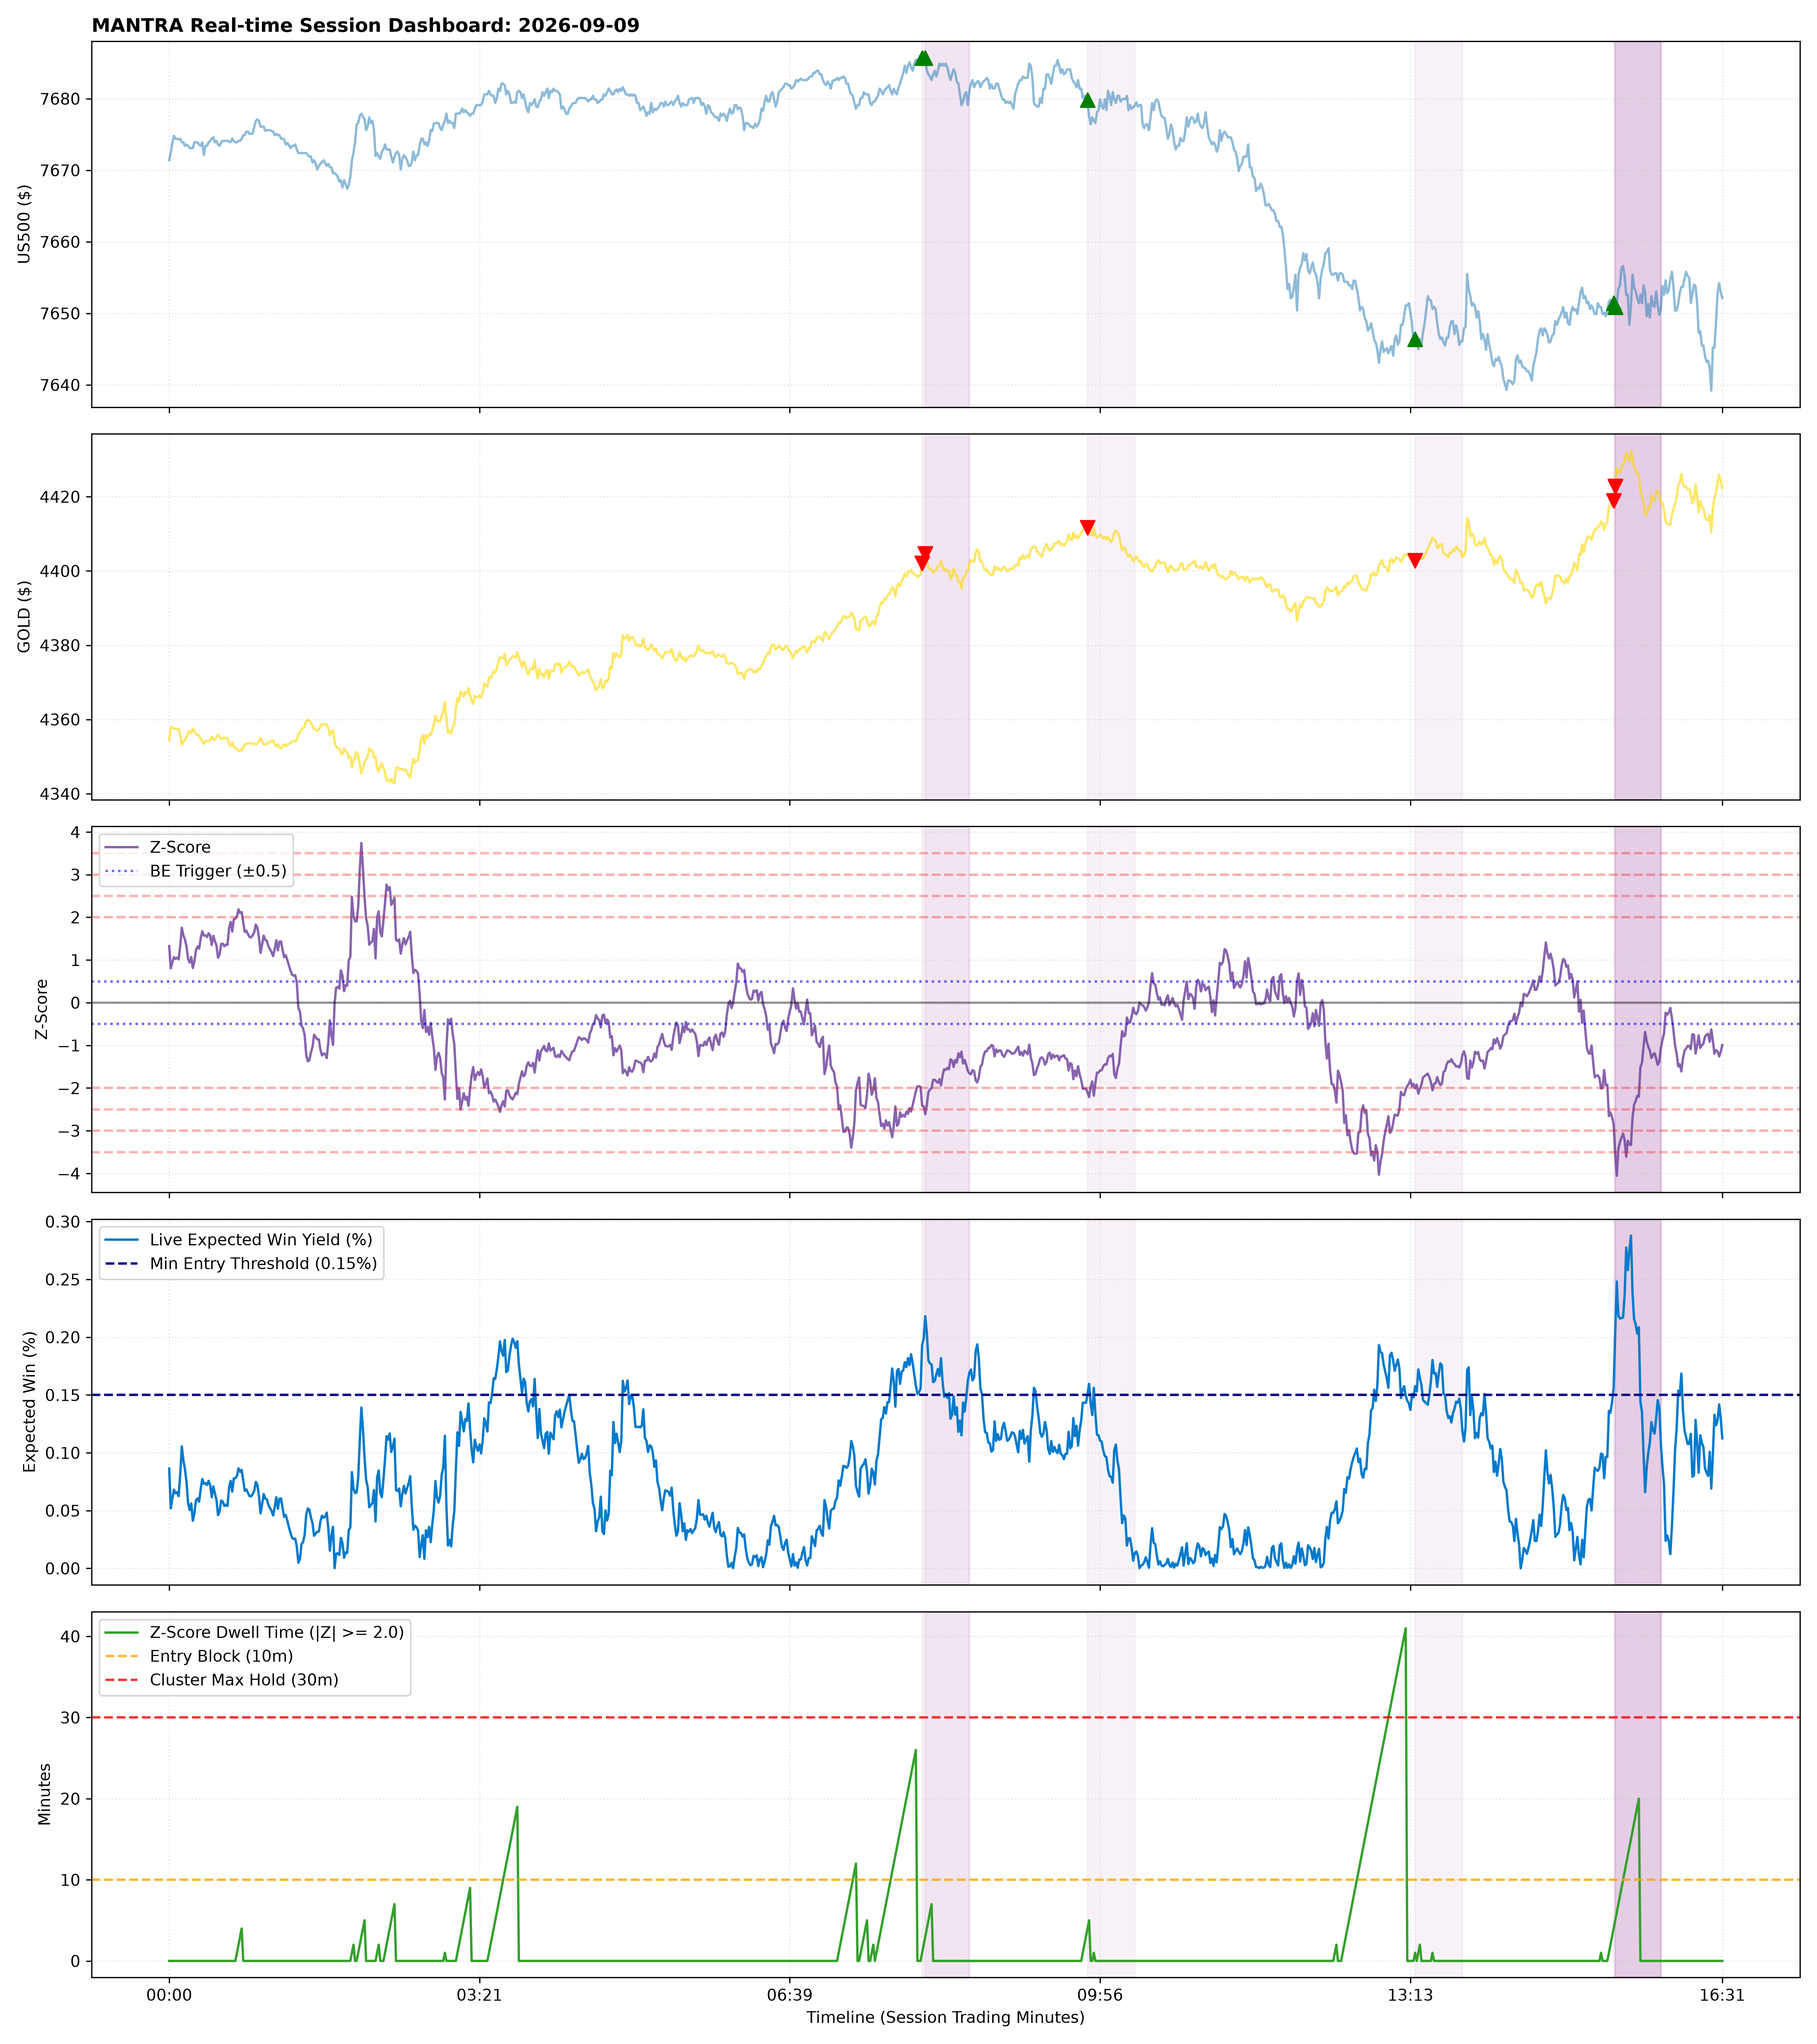
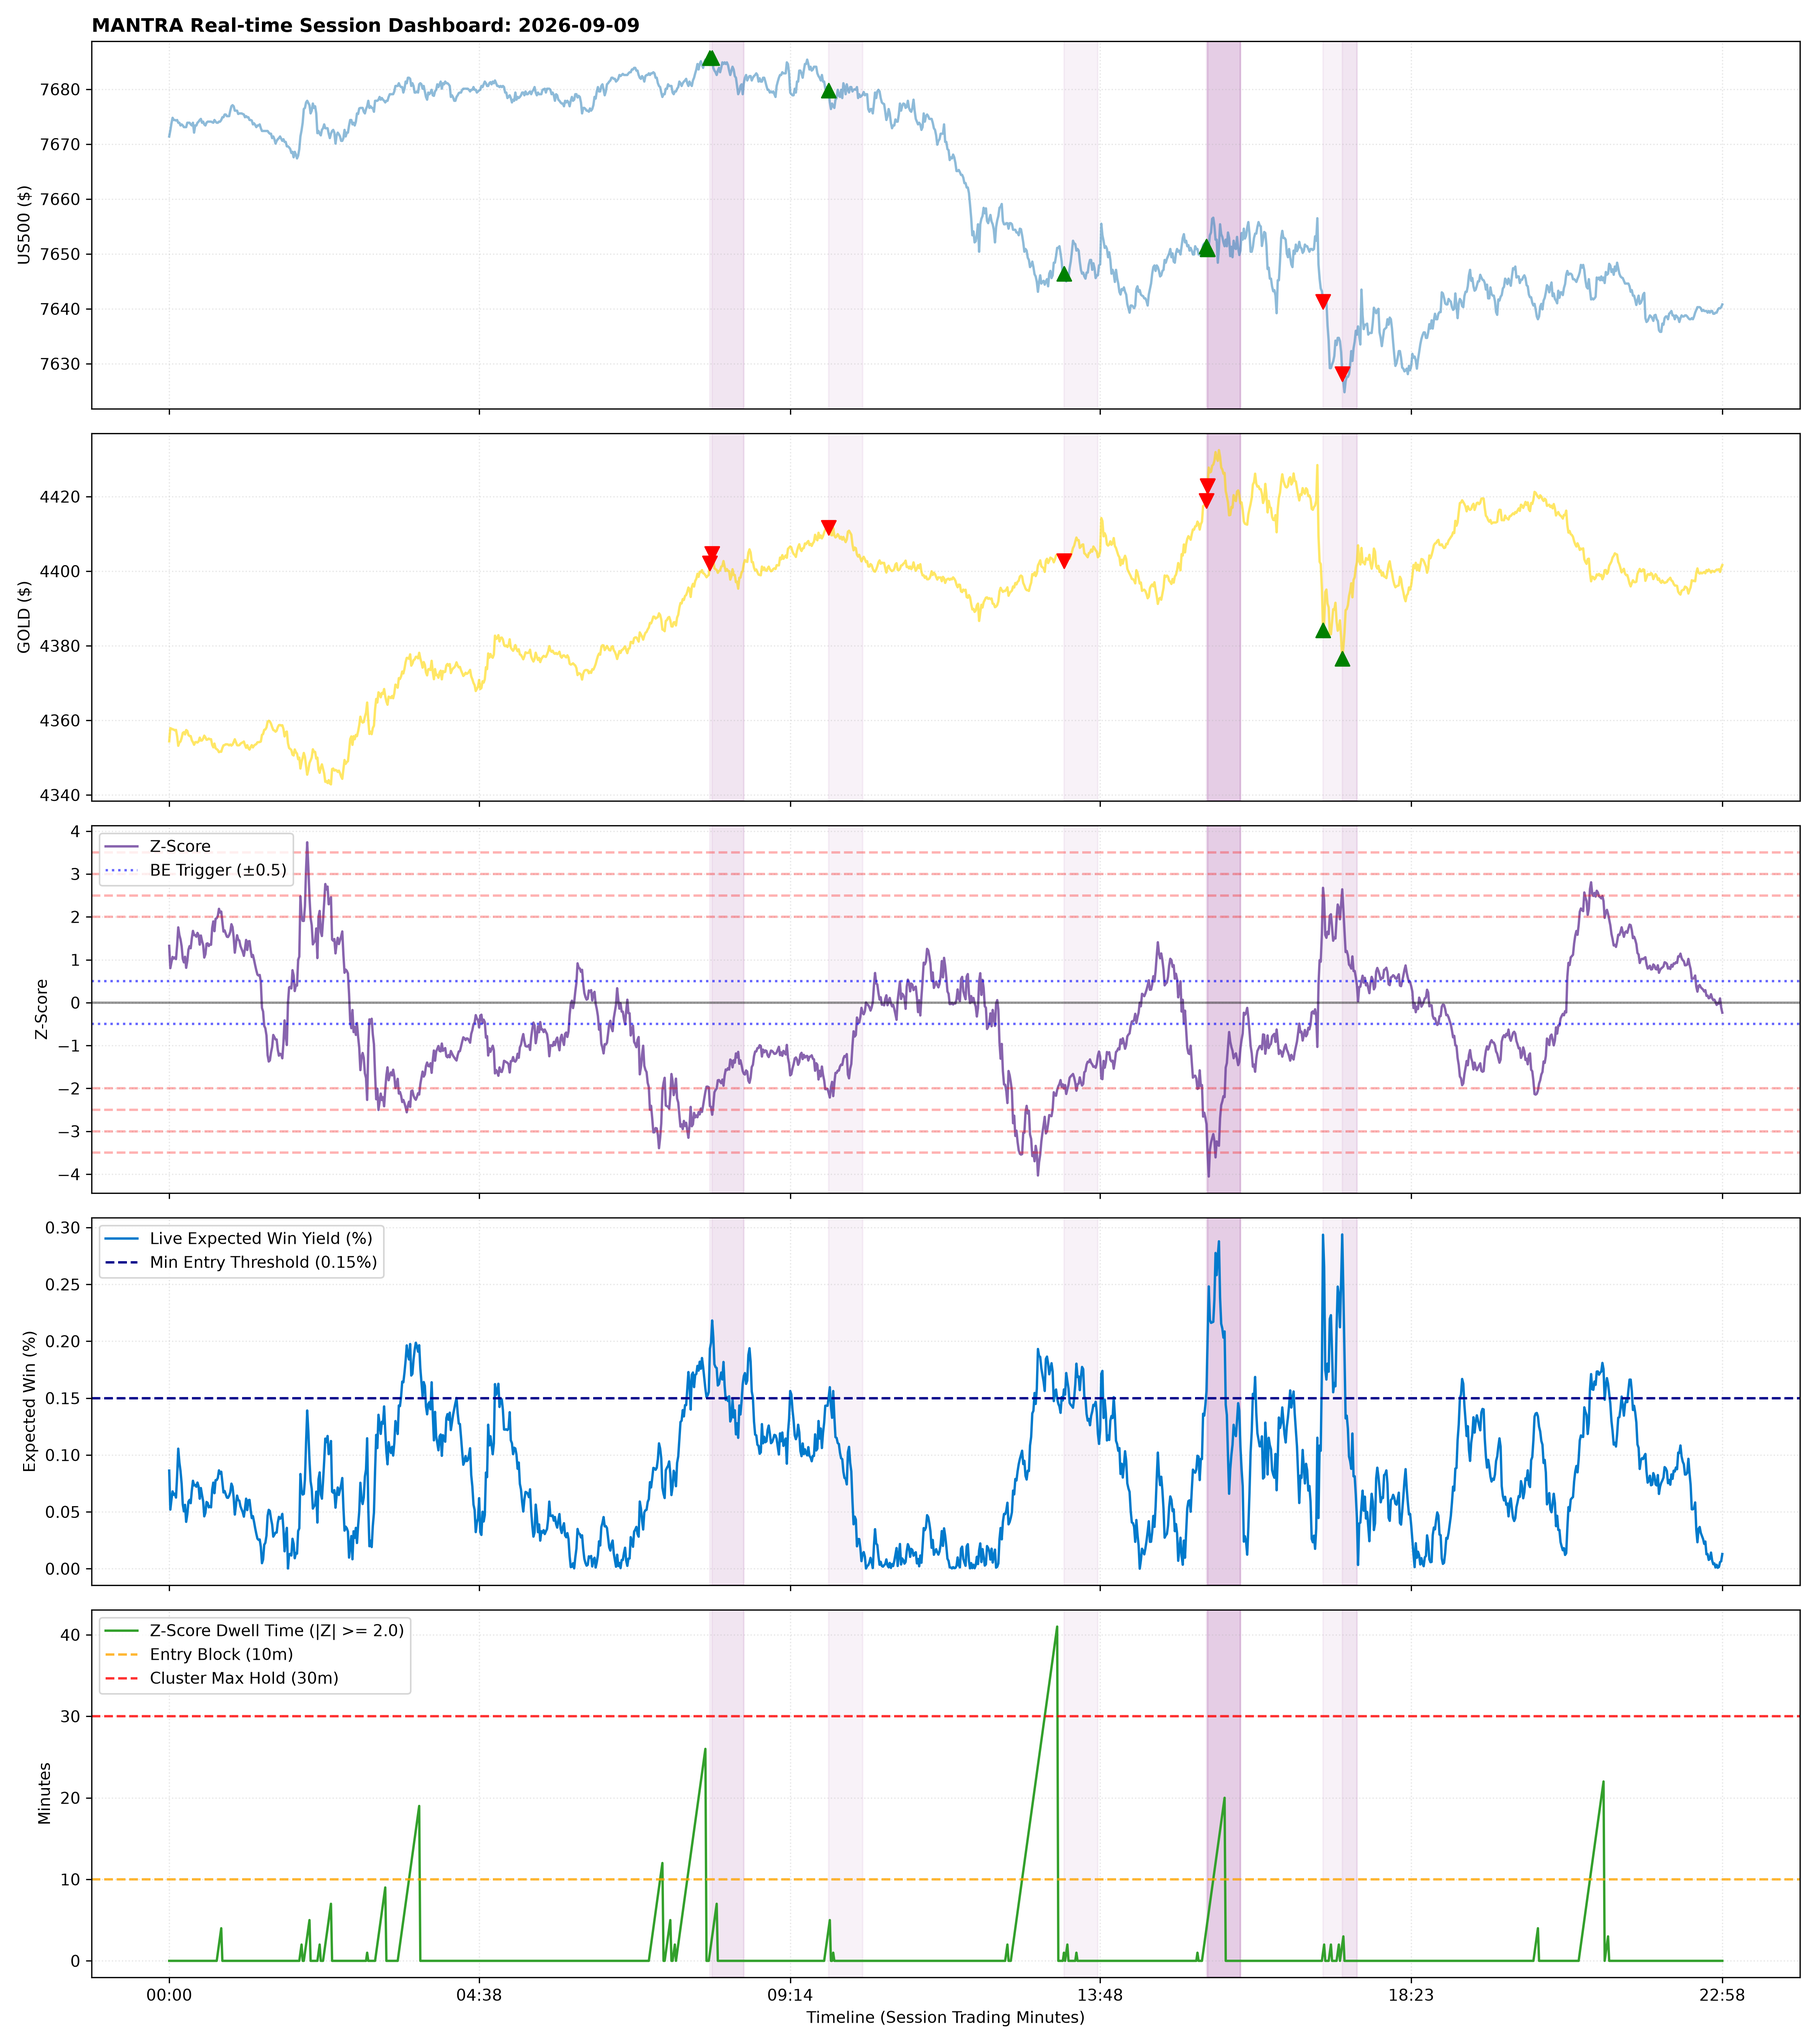
📊 MANTRA Systemic Sync: Automated Layered Session Reports [skip ci]

diff --git a/Strategies/results/daily_analysis_z_score_strategy/2026-09-10/multi_backtest_report.md b/Strategies/results/daily_analysis_z_score_strategy/2026-09-10/multi_backtest_report.md
@@ -1,0 +1,21 @@
+# 📊 MANTRA: Layered Z-Score Session Report (2026-09-10)
+
+* **Strategy Architecture:** `MULTI-SLOT GRID WITH VEILIGE ZONE BREAK-EVEN STOP`
+* **Filters:** Expected Win (`>=0.15%`) | Dwell Block (`10m`) | Cluster Exit (`30m`) | BE Trigger (`|Z|=0.5`)
+
+### 📈 Session Key Performance Metrics
+* **Total Scaled Batches Executed:** 8
+* **Batch Win Rate:** 75.00%
+* **Net Portfolio Session Yield (10x Leveraged Portfolio):** **0.6298%**
+
+### 📜 Session Transaction Ledger
+| Slot | Entry Time | Exit Time | US500 Pos | Entry US500 | Exit US500 | Gold Pos | Entry GOLD | Exit GOLD | PnL Trade Combination | Reason |
+| :--- | :--- | :--- | :--- | :--- | :--- | :--- | :--- | :--- | :--- | :--- |
+| **Slot 1** | 07:59 | 08:14 | `LONG` | 7657.30 | 7655.00 | `SHORT` | 4430.81 | 4416.76 | **0.1435%** | `MEAN_REVERSION_CONVERGENCE` |
+| **Slot 1** | 10:45 | 11:15 | `SHORT` | 7647.20 | 7646.30 | `LONG` | 4394.15 | 4393.78 | **0.0017%** | `CRITICAL_DWELL_TIME_EXCEEDED` |
+| **Slot 1** | 12:36 | 13:06 | `SHORT` | 7643.50 | 7638.10 | `LONG` | 4380.09 | 4379.10 | **0.0240%** | `CRITICAL_DWELL_TIME_EXCEEDED` |
+| **Slot 1** | 14:31 | 14:54 | `SHORT` | 7611.60 | 7599.80 | `LONG` | 4353.15 | 4343.17 | **-0.0371%** | `BREAK_EVEN_PROTECTION_EXIT` |
+| **Slot 2** | 14:32 | 14:54 | `SHORT` | 7608.70 | 7599.80 | `LONG` | 4351.47 | 4343.17 | **-0.0369%** | `BREAK_EVEN_PROTECTION_EXIT` |
+| **Slot 3** | 14:34 | 14:54 | `SHORT` | 7598.80 | 7599.80 | `LONG` | 4342.58 | 4343.17 | **0.0002%** | `BREAK_EVEN_PROTECTION_EXIT` |
+| **Slot 4** | 14:35 | 14:54 | `SHORT` | 7603.30 | 7599.80 | `LONG` | 4341.24 | 4343.17 | **0.0452%** | `BREAK_EVEN_PROTECTION_EXIT` |
+| **Slot 1** | 15:48 | 16:18 | `LONG` | 7597.50 | 7589.20 | `SHORT` | 4374.35 | 4359.84 | **0.1112%** | `CRITICAL_DWELL_TIME_EXCEEDED` |

diff --git a/Strategies/results/daily_analysis_z_score_strategy/2026-09-09/multi_backtest_report.md b/Strategies/results/daily_analysis_z_score_strategy/2026-09-09/multi_backtest_report.md
@@ -4,9 +4,9 @@
 * **Filters:** Expected Win (`>=0.15%`) | Dwell Block (`10m`) | Cluster Exit (`30m`) | BE Trigger (`|Z|=0.5`)
 
 ### 📈 Session Key Performance Metrics
-* **Total Scaled Batches Executed:** 8
-* **Batch Win Rate:** 50.00%
-* **Net Portfolio Session Yield (10x Leveraged Portfolio):** **0.4101%**
+* **Total Scaled Batches Executed:** 10
+* **Batch Win Rate:** 60.00%
+* **Net Portfolio Session Yield (10x Leveraged Portfolio):** **1.6263%**
 
 ### 📜 Session Transaction Ledger
 | Slot | Entry Time | Exit Time | US500 Pos | Entry US500 | Exit US500 | Gold Pos | Entry GOLD | Exit GOLD | PnL Trade Combination | Reason |
@@ -19,3 +19,5 @@
 | **Slot 2** | 15:23 | 15:52 | `LONG` | 7650.90 | 7650.40 | `SHORT` | 4422.82 | 4418.45 | **0.0461%** | `CRITICAL_DWELL_TIME_EXCEEDED` |
 | **Slot 3** | 15:23 | 15:52 | `LONG` | 7650.90 | 7650.40 | `SHORT` | 4422.82 | 4418.45 | **0.0461%** | `CRITICAL_DWELL_TIME_EXCEEDED` |
 | **Slot 4** | 15:23 | 15:52 | `LONG` | 7650.90 | 7650.40 | `SHORT` | 4422.82 | 4418.45 | **0.0461%** | `CRITICAL_DWELL_TIME_EXCEEDED` |
+| **Slot 1** | 17:05 | 17:35 | `SHORT` | 7641.30 | 7635.50 | `LONG` | 4384.21 | 4402.16 | **0.2427%** | `CRITICAL_DWELL_TIME_EXCEEDED` |
+| **Slot 2** | 17:22 | 17:35 | `SHORT` | 7628.10 | 7635.50 | `LONG` | 4376.57 | 4402.16 | **0.2438%** | `CRITICAL_DWELL_TIME_EXCEEDED` |
